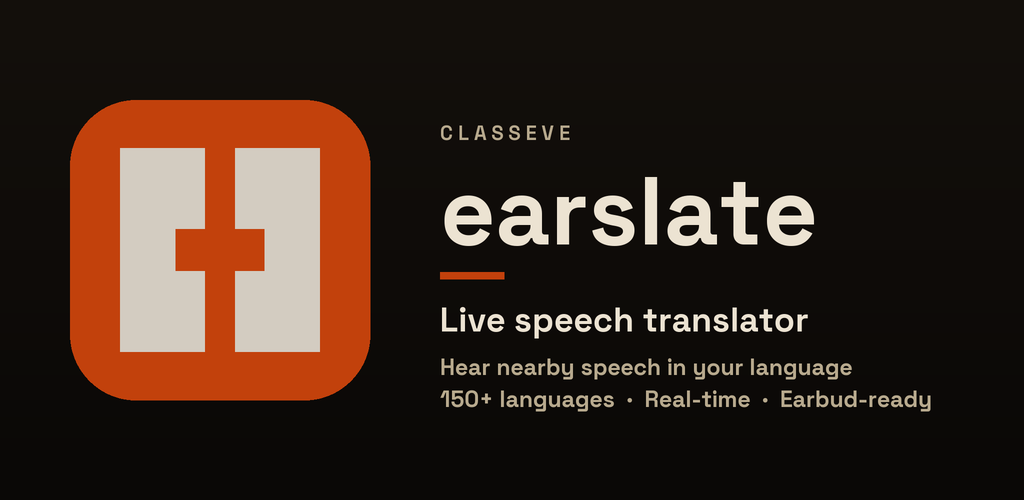
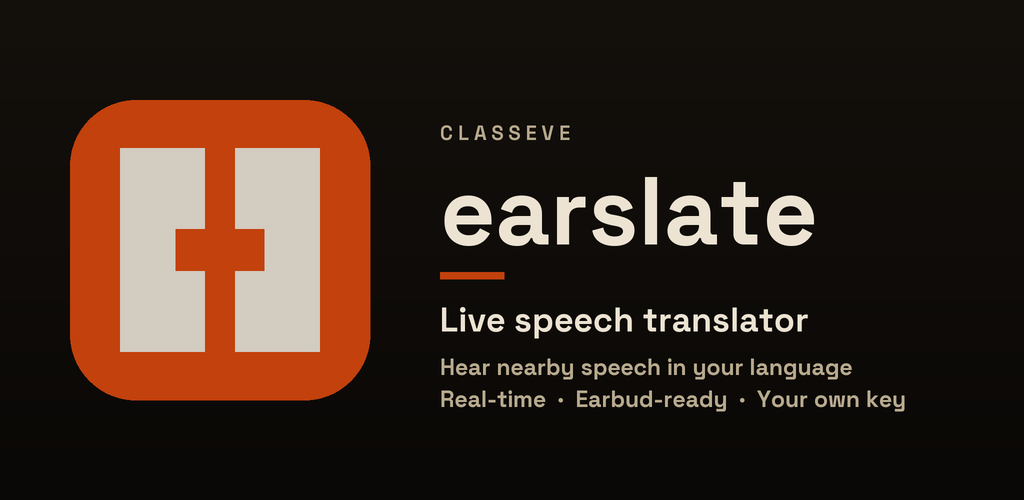
0.5.4: what a person reads is plain, and nothing unused ships
The error banner says COULD NOT START or COULD NOT CONNECT instead of an
internal stage name; Help says recognized. The masked-key helper, its prefix
and the recovering-state check had no caller, and the Google Fonts and
lifecycle-viewmodel-compose libraries and the material3 pin had no user. The
listing and the feature graphic no longer promise 150+ languages: you pick
your language, and theirs is detected as they speak.

Changed region(s): [[0.4062, 0.78, 0.9062, 0.84]]

diff --git a/app/src/main/java/com/classeve/earslate/security/ProviderKeys.kt b/app/src/main/java/com/classeve/earslate/security/ProviderKeys.kt
@@ -20,22 +20,16 @@ import com.classeve.earslate.session.TranslationProvider
  * provider is the only thing that actually knows. [ProviderKeyVerifier] mints a
  * real session before any key is saved, so a bad key still fails at setup —
  * just with the provider's verdict instead of our guess.
- *
- * [prefix] survives only as a display hint: it seeds the masked form. It never
- * blocks.
  */
 enum class KeyProvider(
     val provider: TranslationProvider,
     val displayName: String,
-    /** Historical prefix. A display hint only — never a gate. */
-    val prefix: String,
     val consoleName: String,
     val consoleUrl: String,
 ) {
     GEMINI(
         provider = TranslationProvider.GEMINI,
         displayName = "Google Gemini",
-        prefix = "AIza",
         consoleName = "Google AI Studio",
         consoleUrl = "https://aistudio.google.com/apikey",
     );
@@ -157,11 +151,4 @@ class ProviderKeyStore(private val vault: SecretStore) {
     fun wasResetByKeystore(): Boolean = vault.wasResetByKeystore
 
     fun acknowledgeKeystoreReset() = vault.acknowledgeKeystoreReset()
-
-    /** Masked form for display. Never render a whole key back to the screen. */
-    fun masked(of: KeyProvider): String? {
-        val key = key(of) ?: return null
-        if (key.length <= 10) return of.prefix + "…"
-        return key.take(6) + "…" + key.takeLast(4)
-    }
 }

diff --git a/app/src/main/java/com/classeve/earslate/ui/components/ErrorBanner.kt b/app/src/main/java/com/classeve/earslate/ui/components/ErrorBanner.kt
@@ -37,8 +37,8 @@ fun ErrorBanner(
     onDismiss: (() -> Unit)? = null,
 ) {
     val kickerLabel = when (error.kind) {
-        RuntimeError.Kind.BOOTSTRAP_FAILED -> "BOOTSTRAP FAILED"
-        RuntimeError.Kind.CONNECT_FAILED -> "CONNECT FAILED"
+        RuntimeError.Kind.BOOTSTRAP_FAILED -> "COULD NOT START"
+        RuntimeError.Kind.CONNECT_FAILED -> "COULD NOT CONNECT"
         RuntimeError.Kind.PERMISSION_DENIED -> "PERMISSION NEEDED"
         RuntimeError.Kind.PROVIDER_ERROR -> "PROVIDER REFUSED"
         RuntimeError.Kind.UNKNOWN -> "ERROR"

diff --git a/app/src/main/java/com/classeve/earslate/ui/help/HelpScreen.kt b/app/src/main/java/com/classeve/earslate/ui/help/HelpScreen.kt
@@ -64,7 +64,7 @@ fun HelpScreen(
                 )
                 HelpEntry(
                     title = "Speaking back",
-                    body = "What you say goes out in the language the other person was last heard speaking. Until something has been recognised, that is English.",
+                    body = "What you say goes out in the language the other person was last heard speaking. Until something has been recognized, that is English.",
                 )
                 HelpEntry(
                     title = "Audio output",

diff --git a/app/src/test/java/com/classeve/earslate/session/RuntimeStateTest.kt b/app/src/test/java/com/classeve/earslate/session/RuntimeStateTest.kt
@@ -20,12 +20,6 @@ class RuntimeStateTest {
     }
 
     @Test
-    fun `recovery states are flagged`() {
-        assertTrue(RuntimeState.RECONNECTING.isRecovering)
-        assertTrue(RuntimeState.DEGRADED.isRecovering)
-    }
-
-    @Test
     fun `state store starts idle`() {
         val store = RuntimeStateStore()
         assertEquals(RuntimeState.IDLE, store.state.value)

diff --git a/app/src/main/java/com/classeve/earslate/session/RuntimeState.kt b/app/src/main/java/com/classeve/earslate/session/RuntimeState.kt
@@ -24,7 +24,3 @@ val RuntimeState.isActive: Boolean
         RuntimeState.IDLE -> false
         else -> true
     }
-
-val RuntimeState.isRecovering: Boolean
-    get() = this == RuntimeState.RECONNECTING ||
-        this == RuntimeState.DEGRADED

diff --git a/play-store-assets/render-assets.py b/play-store-assets/render-assets.py
@@ -76,7 +76,7 @@ def render_feature(W=1024, H=500, ss=2):
     d.rectangle([(TX, int(272*ss)), (TX+int(64*ss), int(279*ss))], fill=EMBER)
     d.text((TX, int(298*ss)), "Live speech translator", font=f_tag, fill=TEXT)
     d.text((TX, int(352*ss)), "Hear nearby speech in your language", font=f_sub, fill=SUBTLE)
-    d.text((TX, int(384*ss)), "150+ languages  ·  Real-time  ·  Earbud-ready", font=f_sub, fill=SUBTLE)
+    d.text((TX, int(384*ss)), "Real-time  ·  Earbud-ready  ·  Your own key", font=f_sub, fill=SUBTLE)
     img = img.resize((W, H), Image.LANCZOS)
     p = os.path.join(OUT, "earslate-feature-graphic-1024x500.png")
     img.save(p, "PNG", optimize=True)

diff --git a/play-store-assets/PLAY_STORE_LISTING.md b/play-store-assets/PLAY_STORE_LISTING.md
@@ -15,7 +15,7 @@ earslate
 ## Short description
 
 ```
-Live speech translation with your own Google Gemini key. 150+ languages.
+Live speech translation into your earbuds, with your own Google Gemini key.
 ```
 
 ## Full description
@@ -30,7 +30,7 @@ HOW IT WORKS
 • Add your key once in Settings
 • Start a session with a tap or the Quick Settings tile
 • Read the translation on screen, or route it to your earbuds
-• Works across 150+ language pairs
+• Pick your language; theirs is detected as they speak
 
 YOUR KEY, YOUR AUDIO
 Your key is sealed by the Android keystore and goes only to Google, over HTTPS. While a session is active, ambient audio streams over an encrypted connection directly to Google Gemini; ClassEve never receives your audio. Google handles that audio under its own terms, so do not use earslate for confidential conversations. Details: https://classeve.com/privacy
